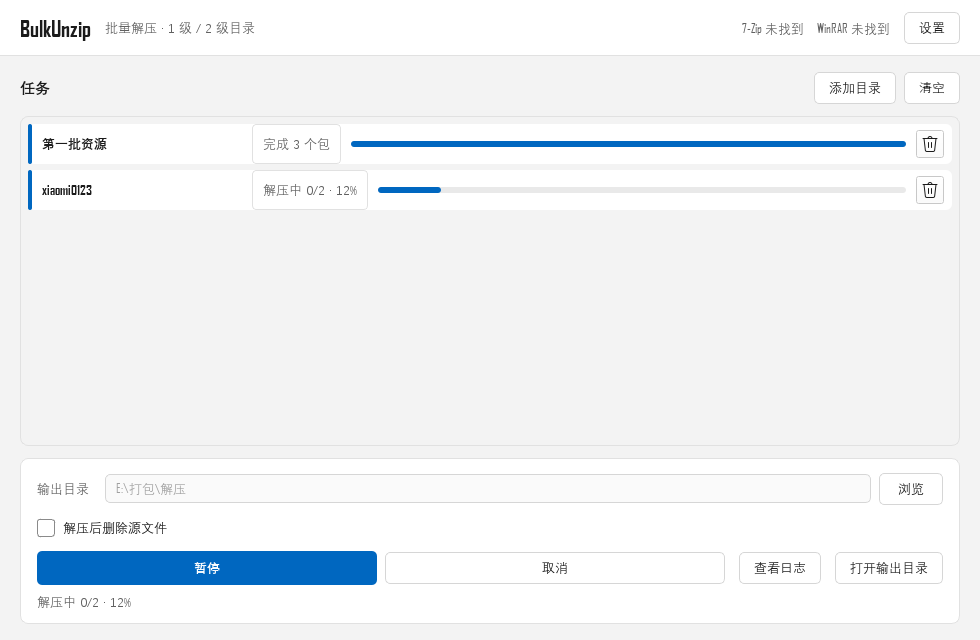
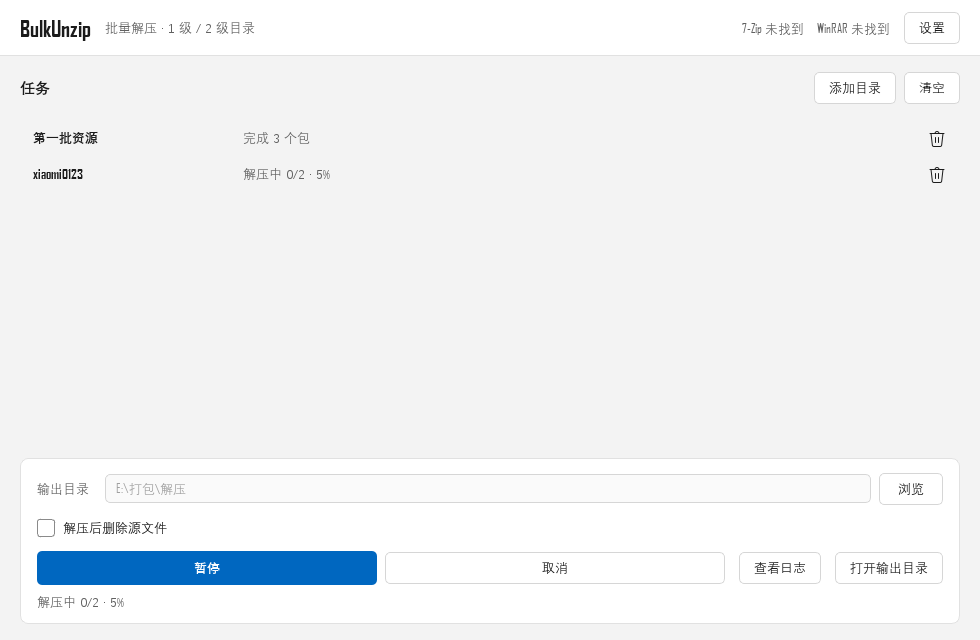
fix: 任务行去框去底色、去掉进度条只留文字进度（v1.3.6）

Changed region(s): [[0.3673, 0.1875, 0.9796, 0.3125], [0.2449, 0.1875, 0.4592, 0.3125], [0.0306, 0.1875, 0.1224, 0.3125]]

diff --git a/gui/window.py b/gui/window.py
@@ -21,7 +21,6 @@ from PySide6.QtWidgets import (
     QListWidgetItem,
     QMainWindow,
     QMessageBox,
-    QProgressBar,
     QPushButton,
     QSizePolicy,
     QToolButton,
@@ -37,7 +36,7 @@ from gui.resources import asset_path
 from gui.tasks import ExtractWorker
 from gui.theme import apply_theme, apply_title_bar
 
-ROW_HEIGHT = 46
+ROW_HEIGHT = 36
 
 
 class TaskRow(QWidget):
@@ -51,13 +50,8 @@ class TaskRow(QWidget):
         self._total = 1
         self._percent = 0
         layout = QHBoxLayout(self)
-        layout.setContentsMargins(0, 0, 8, 0)
+        layout.setContentsMargins(8, 4, 4, 4)
         layout.setSpacing(10)
-        accent = QFrame()
-        accent.setObjectName("rowAccent")
-        accent.setFixedWidth(4)
-        accent.setSizePolicy(QSizePolicy.Policy.Fixed, QSizePolicy.Policy.Expanding)
-        layout.addWidget(accent)
         name = QLabel()
         name.setObjectName("rowTitle")
         metrics = name.fontMetrics()
@@ -66,20 +60,15 @@ class TaskRow(QWidget):
         name.setToolTip(str(path))
         layout.addWidget(name)
         self.status = QLabel("等待开始")
-        self.status.setObjectName("statusChip")
-        self.status.setMaximumWidth(240)
+        self.status.setObjectName("muted")
         layout.addWidget(self.status)
-        self.progress = QProgressBar()
-        self.progress.setRange(0, 100)
-        self.progress.setValue(0)
-        self.progress.setTextVisible(False)
-        self.progress.setMinimumWidth(140)
-        layout.addWidget(self.progress, 1)
+        layout.addStretch(1)
         remove = QToolButton()
         remove.setIcon(FluentIcon.DELETE.icon(color=icon_color))
         remove.setIconSize(QSize(16, 16))
         remove.setFixedSize(28, 28)
         remove.setToolTip("移除")
+        remove.setCursor(Qt.CursorShape.PointingHandCursor)
         remove.clicked.connect(on_remove)
         self.remove_button = remove
         layout.addWidget(remove)
@@ -91,7 +80,6 @@ class TaskRow(QWidget):
         self._percent = 0
         self.status.setText("等待开始")
         self.status.setToolTip("")
-        self.progress.setValue(0)
 
     def running(self, total: int) -> None:
         """开始解压这个目录。"""
@@ -100,7 +88,6 @@ class TaskRow(QWidget):
         self._percent = 0
         self.status.setText(f"解压中 0/{self._total}")
         self.status.setToolTip("")
-        self.progress.setValue(0)
 
     def set_count(self, done: int, total: int) -> None:
         """更新已完成的压缩包个数。"""
@@ -111,15 +98,13 @@ class TaskRow(QWidget):
     def set_percent(self, value: int) -> None:
         """更新当前压缩包的实时百分比。"""
         self._percent = value
-        self.progress.setValue(value)
         self.status.setText(f"解压中 {self._done}/{self._total} · {value}%")
 
     def finished(self, outcome: Outcome) -> None:
-        """显示完成统计；胶囊里放短文本，细节放悬停提示。"""
+        """显示完成统计；行内只放短文本，细节放悬停提示。"""
         if outcome.skipped:
             self.status.setText("没有压缩包")
             self.status.setToolTip("")
-            self.progress.setValue(0)
             return
         details = f"完成 {outcome.archives} 个包 / {outcome.entries} 个条目"
         if outcome.removed:
@@ -128,7 +113,6 @@ class TaskRow(QWidget):
             details += f"，失败 {len(outcome.failures)}"
         self.status.setText(f"完成 {outcome.archives} 个包")
         self.status.setToolTip(details)
-        self.progress.setValue(100)
 
     def cancelled(self) -> None:
         """取消后的状态。"""

diff --git a/gui/theme.py b/gui/theme.py
@@ -80,20 +80,20 @@ QLabel#sectionTitle { font-size: 15px; font-weight: 600; }
 QLabel#rowTitle { font-weight: 600; }
 QFrame#card { background: $surface; border: 1px solid $border; border-radius: 8px; }
 QListWidget#taskList {
-    background: $background; border: 1px solid $border; border-radius: 8px;
+    background: $background; border: none; border-radius: 8px;
     padding: 4px; outline: none;
 }
 QListWidget#taskList::item {
-    background: $surface; border-radius: 6px; margin: 3px;
+    background: transparent; border-radius: 6px; margin: 1px;
 }
 QListWidget#taskList::item:hover { background: $hover; }
 QListWidget#taskList::item:selected { background: $selection; }
 QWidget#taskRow { background: transparent; }
-QFrame#rowAccent { background: $accent; border-radius: 2px; }
-QLabel#statusChip {
-    background: $surface; border: 1px solid $border; border-radius: 4px;
-    padding: 2px 8px; color: $muted;
+QToolButton {
+    border: none; border-radius: 4px; padding: 4px; background: transparent;
 }
+QToolButton:hover { background: $hover; }
+QToolButton:pressed { background: $pressed; }
 QPushButton {
     background: $surface; border: 1px solid $control_border; border-radius: 5px;
     padding: 6px 14px; min-height: 18px;

diff --git a/gui/version.py b/gui/version.py
@@ -2,6 +2,6 @@
 
 from __future__ import annotations
 
-APP_VERSION = "1.3.5"
+APP_VERSION = "1.3.6"
 
 __all__ = ["APP_VERSION"]
